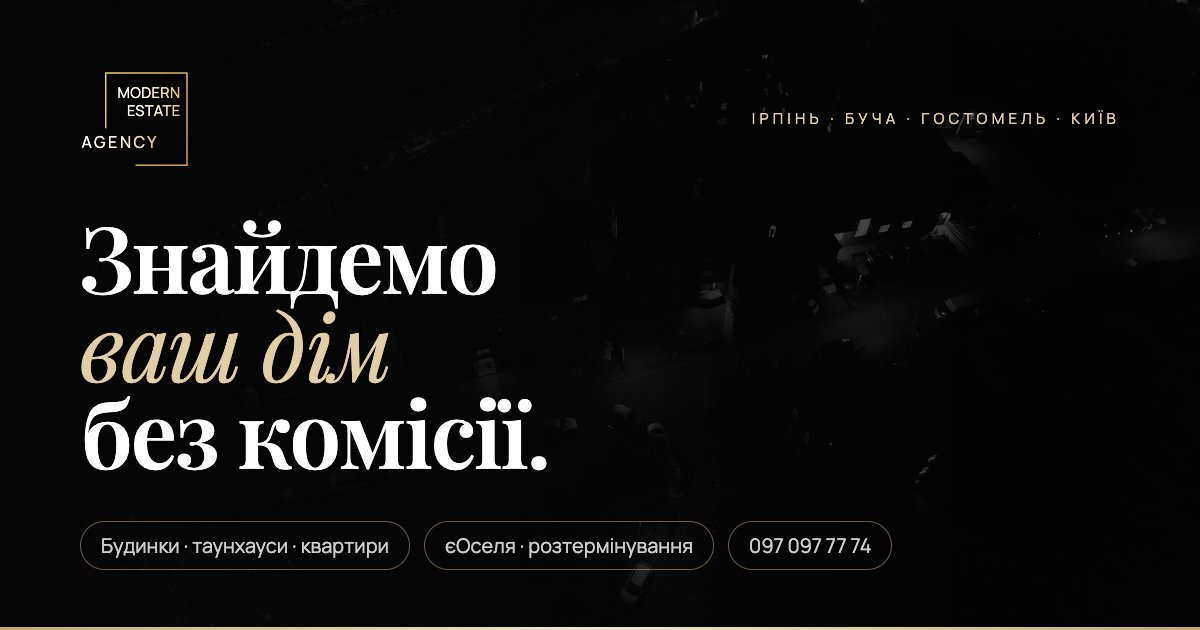
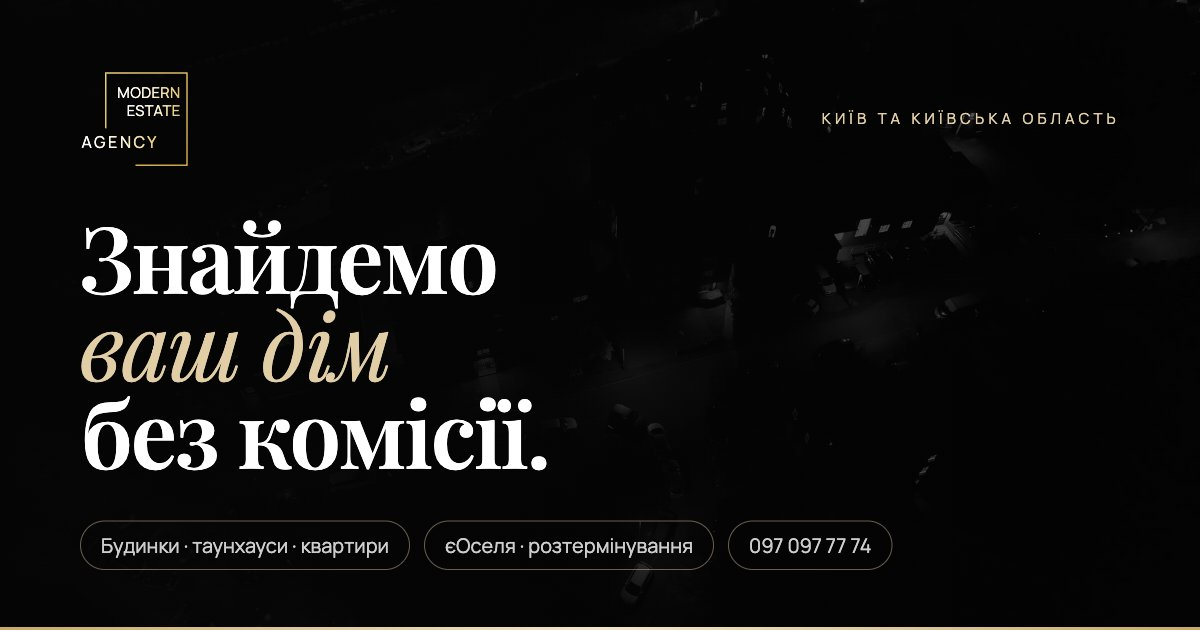
Olga's edits: Kyiv & region, office at Mechnykova 32 with map, drop personal page

diff --git a/src/data/site.ts b/src/data/site.ts
@@ -10,9 +10,9 @@ export const contacts = {
   whatsapp: 'https://wa.me/380970977774',
   viber: 'viber://chat?number=%2B380970977774',
   email: 'agency.modern.estate@gmail.com',
-  address: 'Ірпінь, вул. Садова 31, ТРЦ «Garden Plaza», 4 поверх, офіс 39/11',
-  addressShort: 'Ірпінь, ТРЦ «Garden Plaza»',
-  maps: 'https://www.google.com/maps/search/?api=1&query=%D0%86%D1%80%D0%BF%D1%96%D0%BD%D1%8C+%D0%A1%D0%B0%D0%B4%D0%BE%D0%B2%D0%B0+31+Garden+Plaza',
+  address: 'Ірпінь, вул. Мечникова, 32',
+  addressShort: 'Ірпінь, вул. Мечникова, 32',
+  maps: 'https://maps.app.goo.gl/EX3TZrJv5cTuiqsr6',
 };
 
 export const socials = [
@@ -23,13 +23,6 @@ export const socials = [
     href: 'https://www.instagram.com/modern_estate_agency',
     note: '17,4 тис. підписників · нові відеоогляди щотижня',
     featured: true,
-  },
-  {
-    id: 'instagram',
-    name: 'Ольга Меньківська',
-    handle: '@olga_menkivska',
-    href: 'https://www.instagram.com/olga_menkivska',
-    note: 'Особиста сторінка',
   },
   { id: 'tiktok', name: 'TikTok', handle: '@modern_estate', href: 'https://tiktok.com/@modern_estate', note: 'Короткі огляди об’єктів' },
   {
@@ -135,12 +128,12 @@ export const quizSteps: QuizStep[] = [
     hint: 'можна обрати кілька',
     multi: true,
     options: () => [
+      { value: 'Київ' },
       { value: 'Ірпінь' },
       { value: 'Буча' },
       { value: 'Гостомель' },
       { value: 'Ворзель' },
-      { value: 'Київ' },
-      { value: 'Інше' },
+      { value: 'Інше в області' },
     ],
   },
   {
